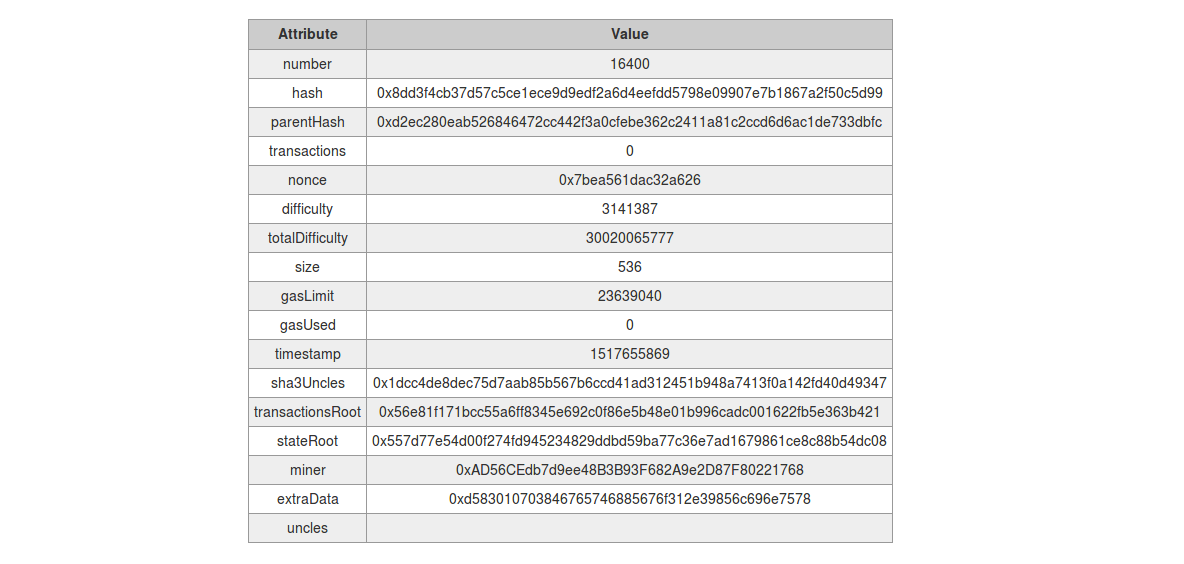
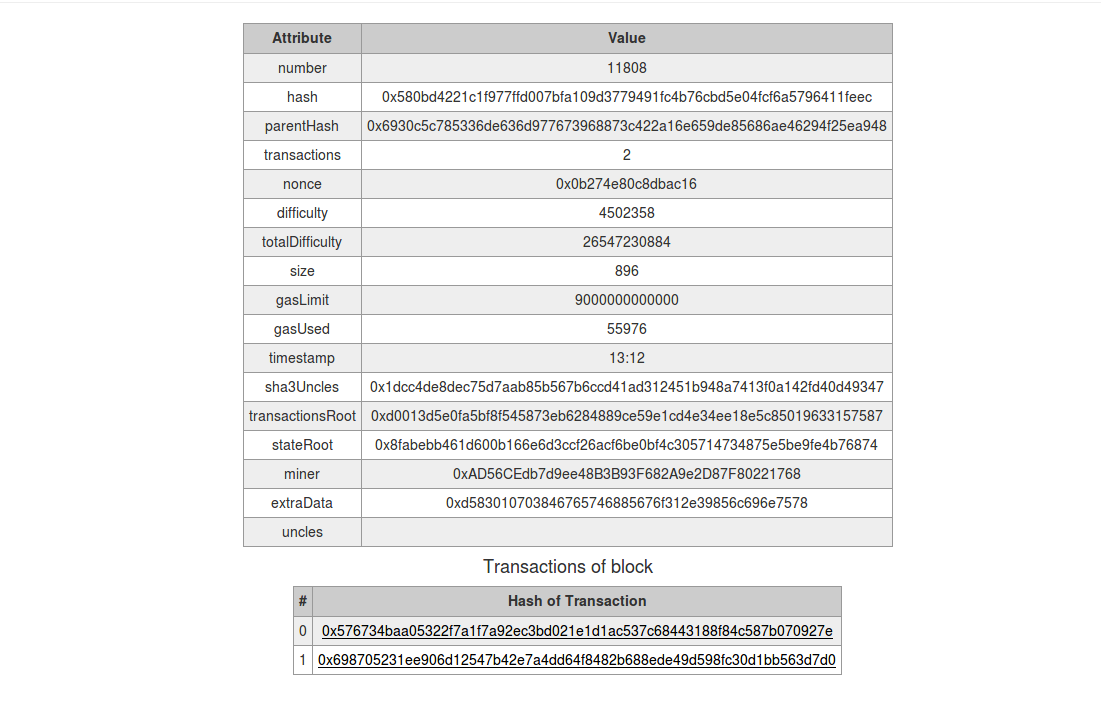
feat: get transactions of block

Changed region(s): [[0.1853, 0.0301, 0.8338, 0.9645]]

diff --git a/basic/analytics.js b/basic/analytics.js
@@ -1104,13 +1104,33 @@ module.exports = {
 
   getTranscationInfo: function(e) {
     return new Promise((resolve, reject) => {
-      // web3.eth.getTransaction(hash).then(rs => {
+      web3.eth.getTransactionReceipt(e.hash).then(res => {
+        if (res != null) {
+          // console.log("Input: " + rs.input);
+          res.input = e.input;
+          res.gasPrice = e.gasPrice;
+          // console.log("SAVE ON arDbTSInfo: ");
+          // dbTransInfo.push(res);
+          this.saveTsInfoDB(res);
+          resolve(res);
+        }
+      }).catch(err => {
+        console.log("ERROR getTransactionReceipt getTranscationInfo: " + err);
+        resolve([]);
+      });
+    });
+  },
 
-        // if (rs != null) {
-          web3.eth.getTransactionReceipt(e.hash).then(res => {
+  getTranscationInfoHash: function(hash) {
+    return new Promise((resolve, reject) => {
+      web3.eth.getTransaction(hash).then(rs => {
+
+        if (rs != null) {
+          web3.eth.getTransactionReceipt(rs.hash).then(res => {
             if (res != null) {
               // console.log("Input: " + rs.input);
-              res.input = e.input;
+              res.input = rs.input;
+              res.gasPrice = rs.gasPrice;
               // console.log("SAVE ON arDbTSInfo: ");
               // dbTransInfo.push(res);
               this.saveTsInfoDB(res);
@@ -1121,12 +1141,12 @@ module.exports = {
             resolve([]);
           });
 
-        // }
+        }
 
-      // }).catch(err => {
-      //   console.log("ERROR getTransaction => getTranscationInfo: " + err);
-      //   resolve([]);
-      // });
+      }).catch(err => {
+        console.log("ERROR getTransaction => getTranscationInfo: " + err);
+        resolve([]);
+      });
       
     });
   },

diff --git a/basic/routes/index.js b/basic/routes/index.js
@@ -585,7 +585,7 @@ router.get('/account/:acc', function(req, res, next) {
 router.post('/get_transaction_info', function(req, res, next) {
   var hash = req.body.hash;
 
-  analytics.getTranscationInfo(hash).then(val => {
+  analytics.getTranscationInfoHash(hash).then(val => {
     noData = null;
 
     if (val.length < 1) {
@@ -610,7 +610,7 @@ router.get('/get_transaction/:hash', function(req, res, next) {
   var hash = req.params.hash;
   // console.log("Account: " + JSON.stringify(account));
 
-  analytics.getTranscationInfo(hash).then(val => {
+  analytics.getTranscationInfoHash(hash).then(val => {
 
     prvAC = analytics.getPreviousAccounts();
     analytics.getLastBlockLocally().then(block => {

diff --git a/README.md b/README.md
@@ -35,7 +35,7 @@ Each line contains:
 
 >This function will generate a chart that contains the total gas used on each block.
 
-![alt text](https://github.com/Temeteron/Ethereum_analytics_debugger/blob/master/Contracts%20and%20Info/img/gas_per_block.png?raw=true "Transaction Info")
+![alt text](https://github.com/Temeteron/Ethereum_analytics_debugger/blob/master/Contracts%20and%20Info/img/gas_per_block.png?raw=true "Gas Per Block")
 
 5) **Get Gas Spent of Account** - ARGS: (Start block, End block, Account)
 
